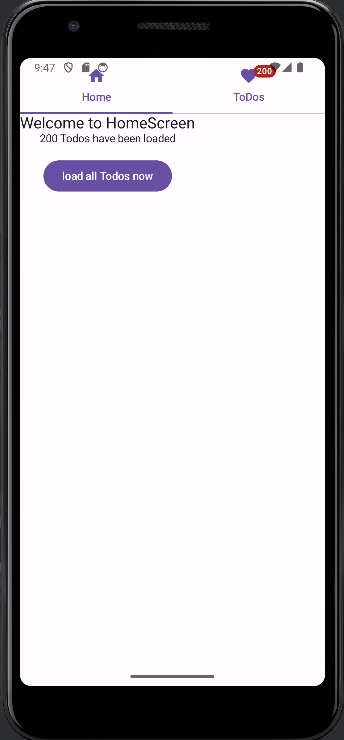
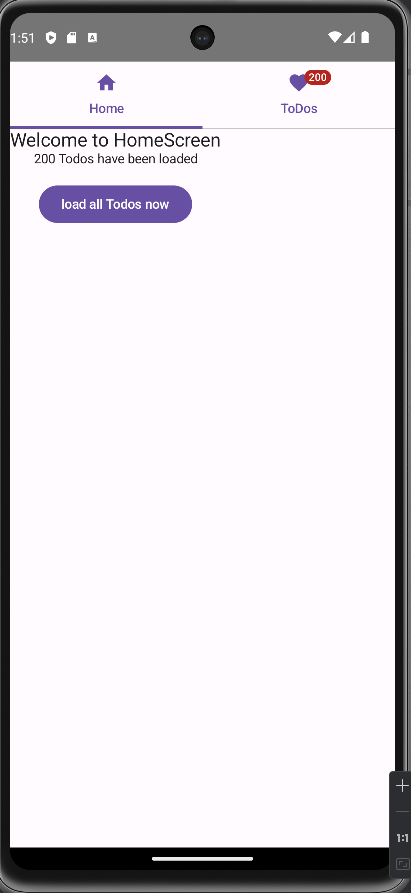
add documentation for exercise 3

Changed region(s): [[0.0, 0.0, 1.0, 1.0]]

diff --git a/post/app/src/main/java/at/htl/post/ui/layout/TabScreen.kt b/post/app/src/main/java/at/htl/post/ui/layout/TabScreen.kt
@@ -1,7 +1,10 @@
 package at.htl.post.ui.layout
 
 import androidx.compose.foundation.layout.Column
+import androidx.compose.foundation.layout.Spacer
 import androidx.compose.foundation.layout.fillMaxWidth
+import androidx.compose.foundation.layout.padding
+import androidx.compose.foundation.layout.width
 import androidx.compose.material.icons.Icons
 import androidx.compose.material.icons.filled.Favorite
 import androidx.compose.material.icons.filled.Home
@@ -14,6 +17,7 @@ import androidx.compose.material3.TabRow
 import androidx.compose.material3.Text
 import androidx.compose.runtime.Composable
 import androidx.compose.ui.Modifier
+import androidx.compose.ui.unit.dp
 import at.htl.post.model.AlbumService
 import at.htl.post.model.Model
 import at.htl.post.model.ModelStore

diff --git a/post/app/src/main/java/at/htl/post/ui/layout/MainView.kt b/post/app/src/main/java/at/htl/post/ui/layout/MainView.kt
@@ -46,7 +46,6 @@ class MainView @Inject constructor() {
     lateinit var albumService: AlbumService
 
     fun buildContent(activity: ComponentActivity) {
-        activity.enableEdgeToEdge()
         activity.setContent {
             val viewModel = store
                 .pipe

diff --git a/todo/app/src/main/java/at/htl/todo/ui/layout/HomeView.kt b/todo/app/src/main/java/at/htl/todo/ui/layout/HomeView.kt
@@ -43,7 +43,6 @@ class MainView @Inject constructor() {
     lateinit var toDoService: TodoService
 
     fun buildContent(activity: ComponentActivity) {
-        activity.enableEdgeToEdge()
         activity.setContent {
             val viewModel = store
                 .pipe
